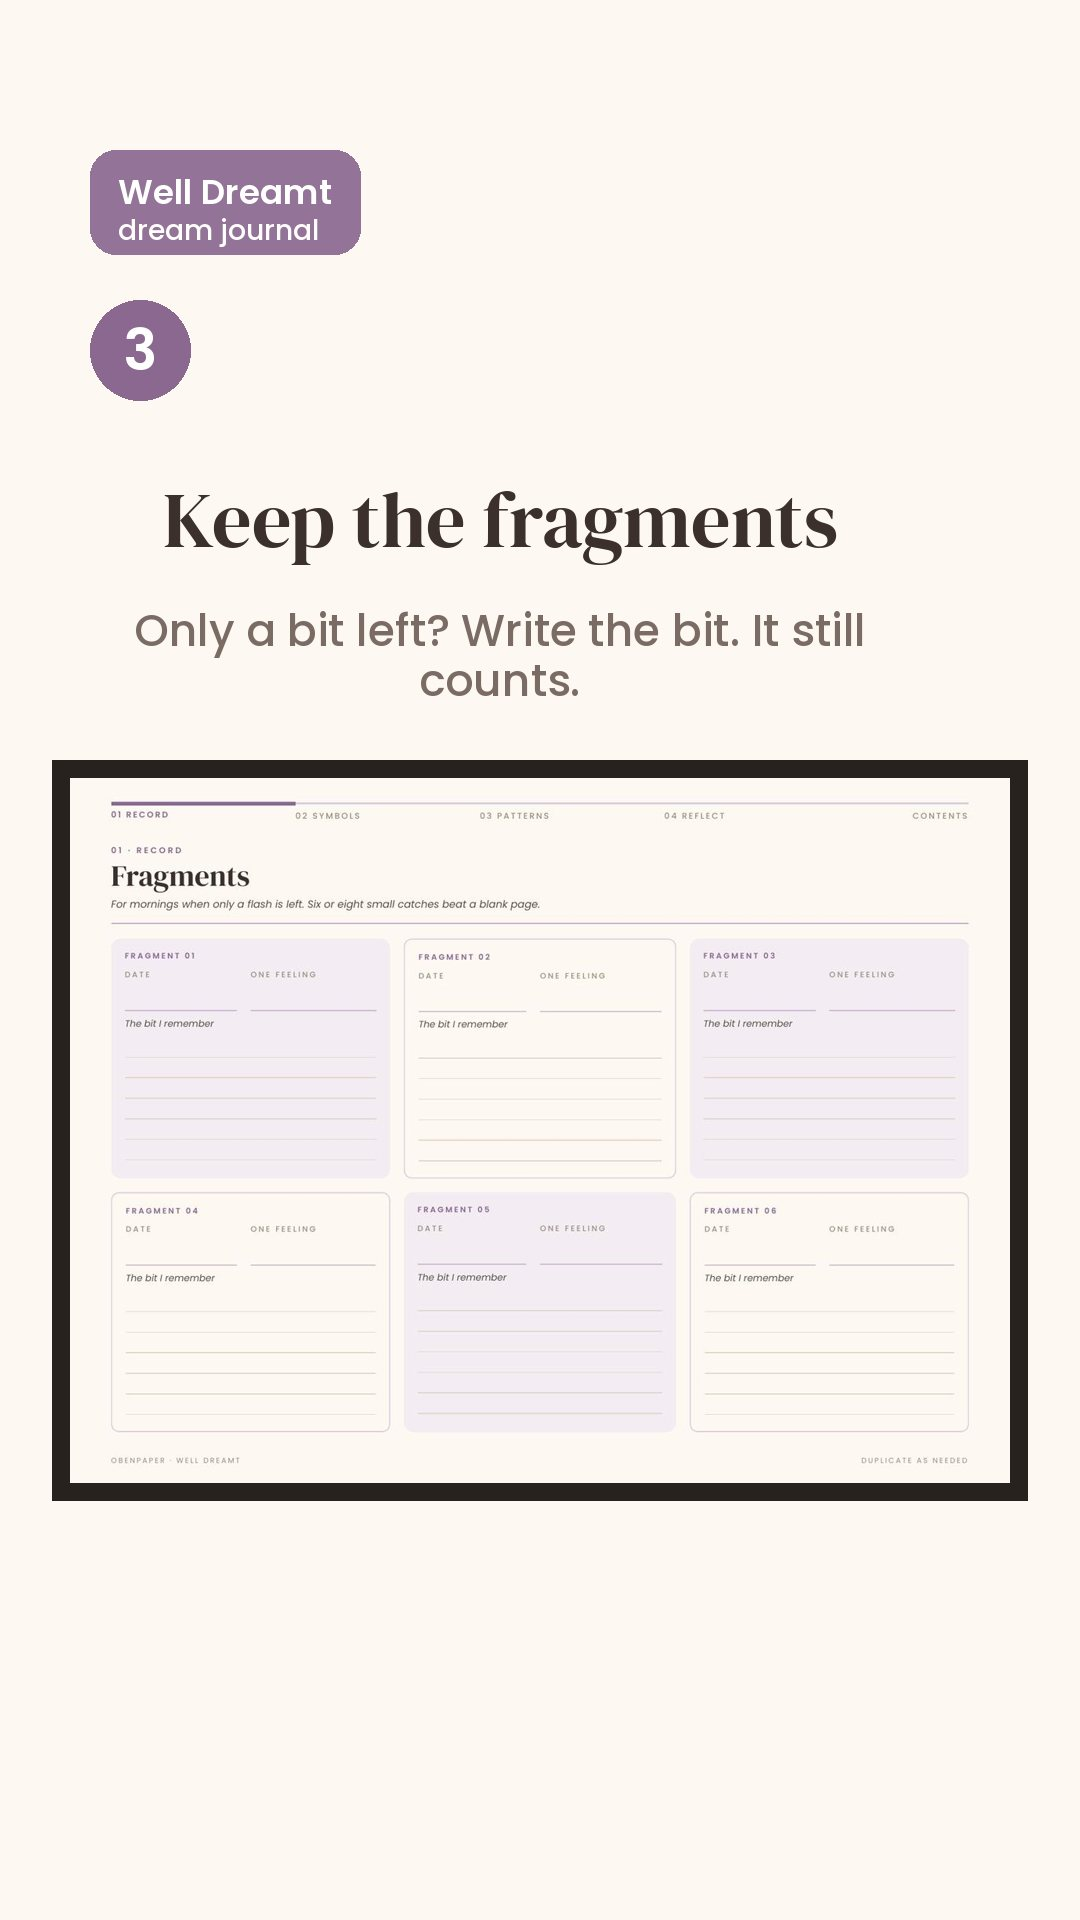
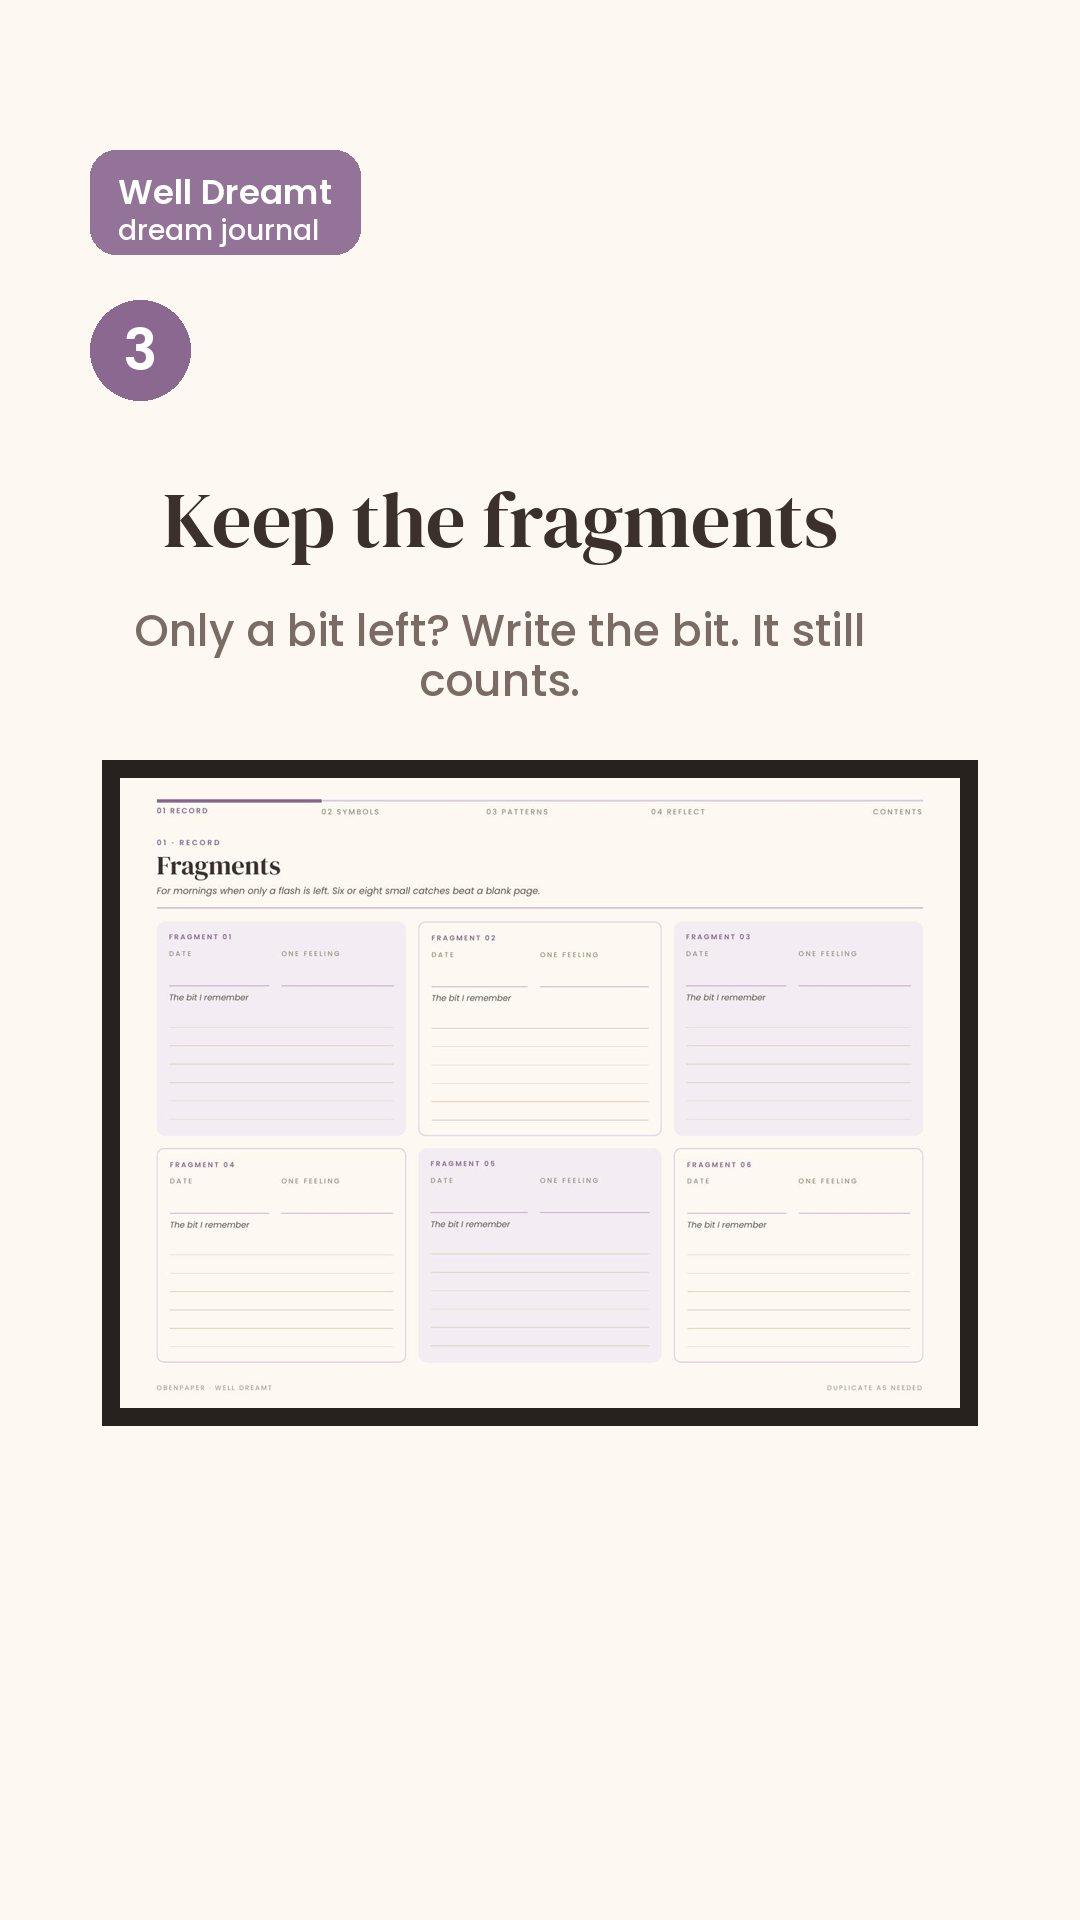
Carousel pages 840 px wide (stay left of TikTok's right-side buttons)
Claude-Session: https://claude.ai/code/session_01Ux9cpv4bnN4BGkgwm1MEeq

diff --git a/pin-studio/tiktok_carousel.py b/pin-studio/tiktok_carousel.py
@@ -20,7 +20,7 @@ STUDIO = os.path.dirname(os.path.abspath(__file__))
 ROOT = os.path.dirname(STUDIO)
 
 
-def page(img, path, y, width=940):
+def page(img, path, y, width=840):
     pg = Image.open(path).convert("RGB")
     h = int(pg.height * width / pg.width)
     pg = pg.resize((width, h))
